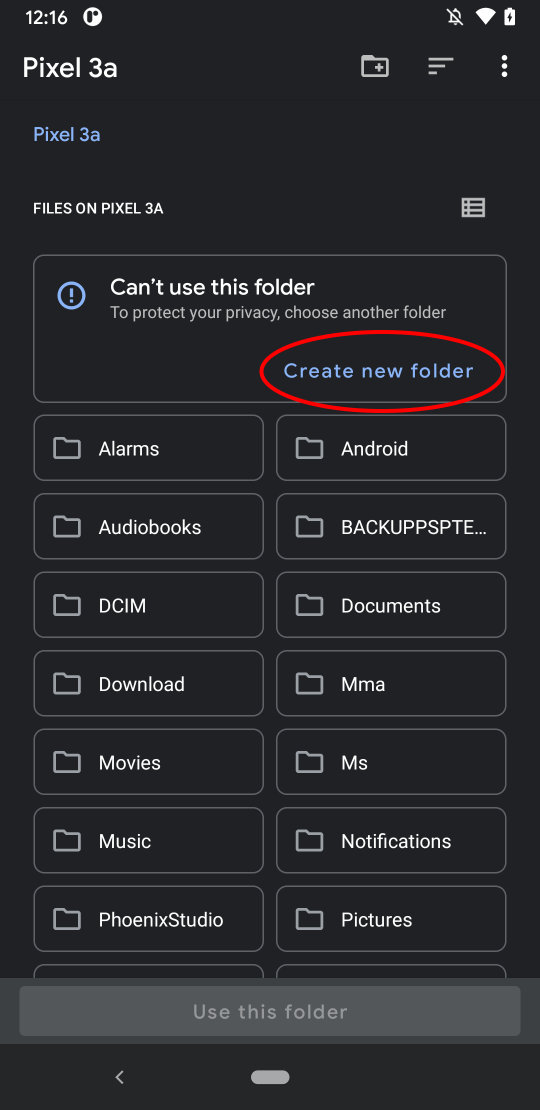
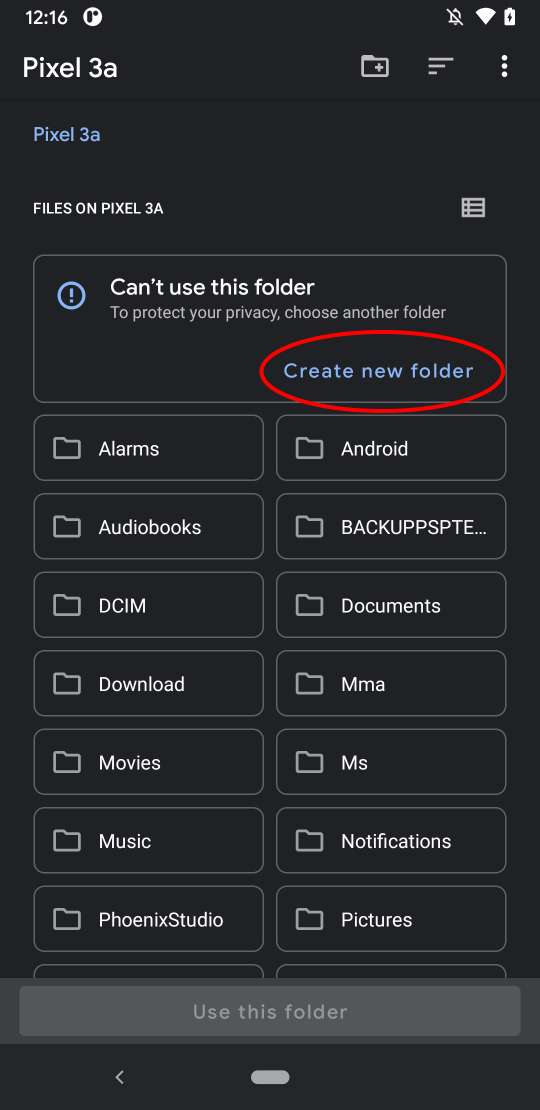
Compress storage_android/*

diff --git a/docs/getting-started/save-data-and-storage.md b/docs/getting-started/save-data-and-storage.md
@@ -29,11 +29,11 @@ If you already have a PSP folder from an older installation of PPSSPP, just pick
 
 If not, follow the red markings in the below pictures.
 
-![Tap on Create new folder.](/static/img/guide_folder/step1.png)
+![Tap on Create new folder.](/static/img/docs/storage_android/step1.jpg)
 
-![Enter a name for the new folder. PSP suggested.](/static/img/guide_folder/step2.png)
+![Enter a name for the new folder. PSP suggested.](/static/img/docs/storage_android/step2.jpg)
 
-![Tap on Use this folder.](/static/img/guide_folder/step3.png)
+![Tap on Use this folder.](/static/img/docs/storage_android/step3.jpg)
 
 ## Pitfalls
 
